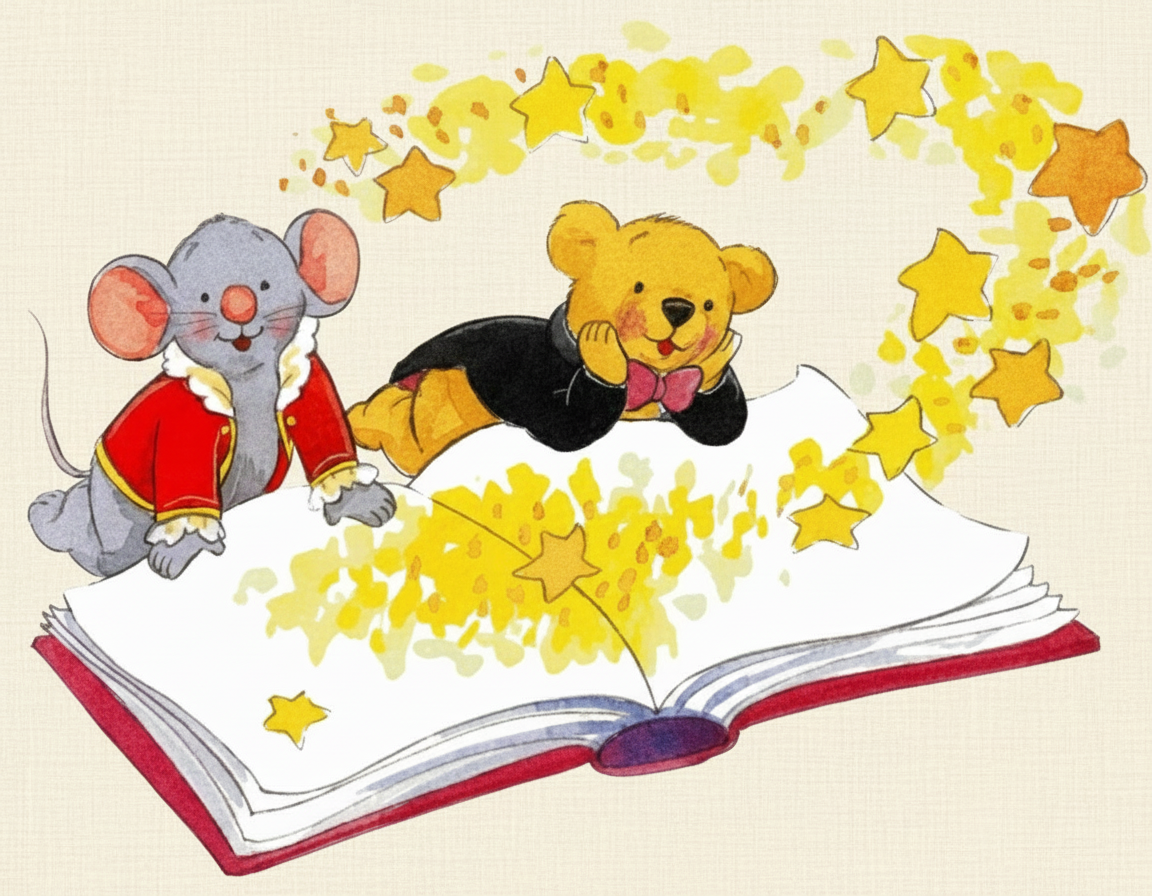
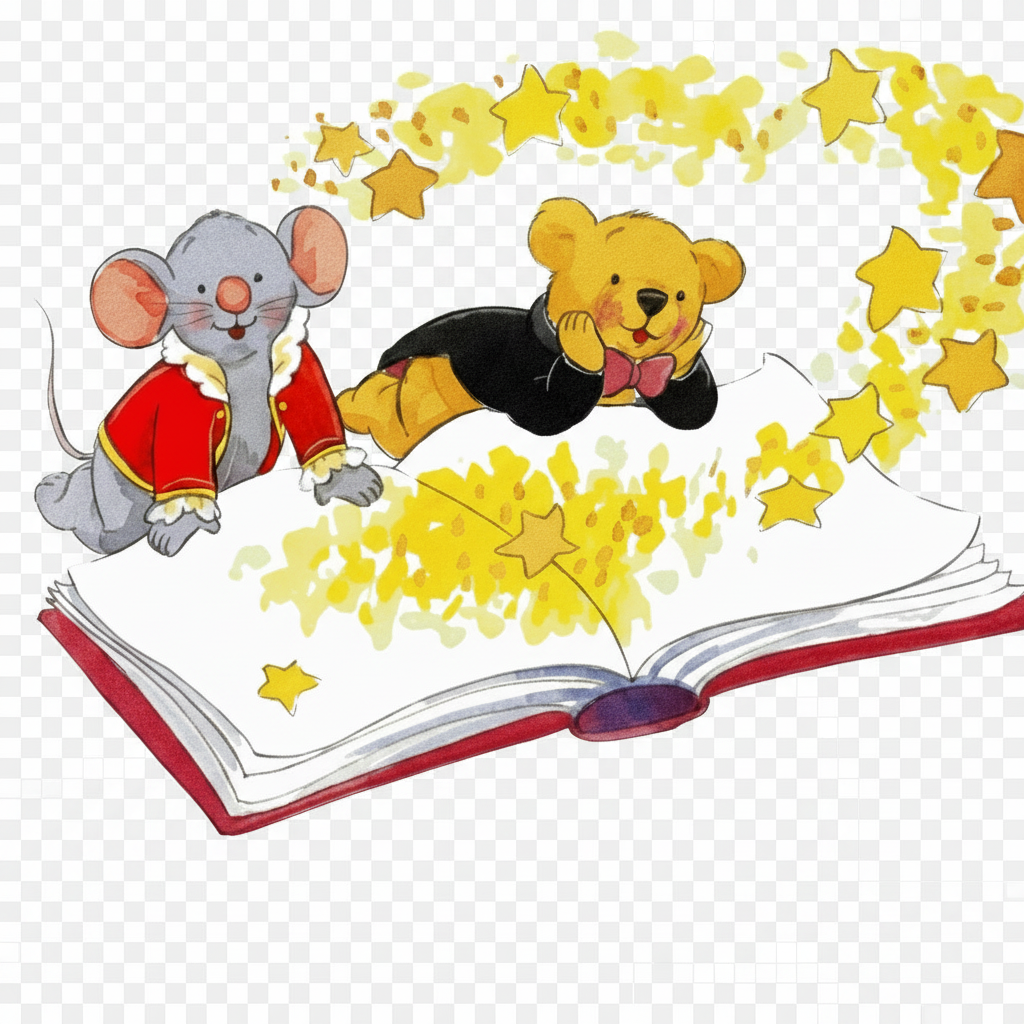
Changes

diff --git a/src/pages/Home.tsx b/src/pages/Home.tsx
@@ -3,8 +3,8 @@ import Layout from "@/components/Layout";
 import DecorativeDivider from "@/components/DecorativeDivider";
 import MusicNote from "@/components/MusicNote";
 import { Music, Heart, Users, MapPin } from "lucide-react";
-import mozartMouseBear from "@/assets/mozart-mouse-bear.png";
-import groupCharacters from "@/assets/group-characters.png";
+import mozartMouseBear from "@/assets/mozart-mouse-bear-transparent.png";
+import groupCharacters from "@/assets/group-characters-transparent.png";
 const Home = () => {
   return <Layout>
       {/* Hero Section */}
@@ -27,10 +27,10 @@ const Home = () => {
 
           {/* Mozart character image */}
           <div className="mb-8 flex justify-center">
-            <img 
-              src={mozartMouseBear} 
-              alt="Mozart Mouse and Beethoven Bear characters" 
-              className="w-48 h-auto sm:w-64 drop-shadow-lg"
+            <img
+              src={mozartMouseBear}
+              alt="Mozart Mouse and Beethoven Bear characters"
+              className="w-48 h-auto sm:w-64"
             />
           </div>
 
@@ -51,10 +51,10 @@ const Home = () => {
 
             {/* Group characters image */}
             <div className="flex justify-center py-4">
-              <img 
-                src={groupCharacters} 
-                alt="Little Mozart characters group" 
-                className="w-full max-w-lg h-auto drop-shadow-md"
+              <img
+                src={groupCharacters}
+                alt="Little Mozart characters group"
+                className="w-full max-w-lg h-auto"
               />
             </div>
 
